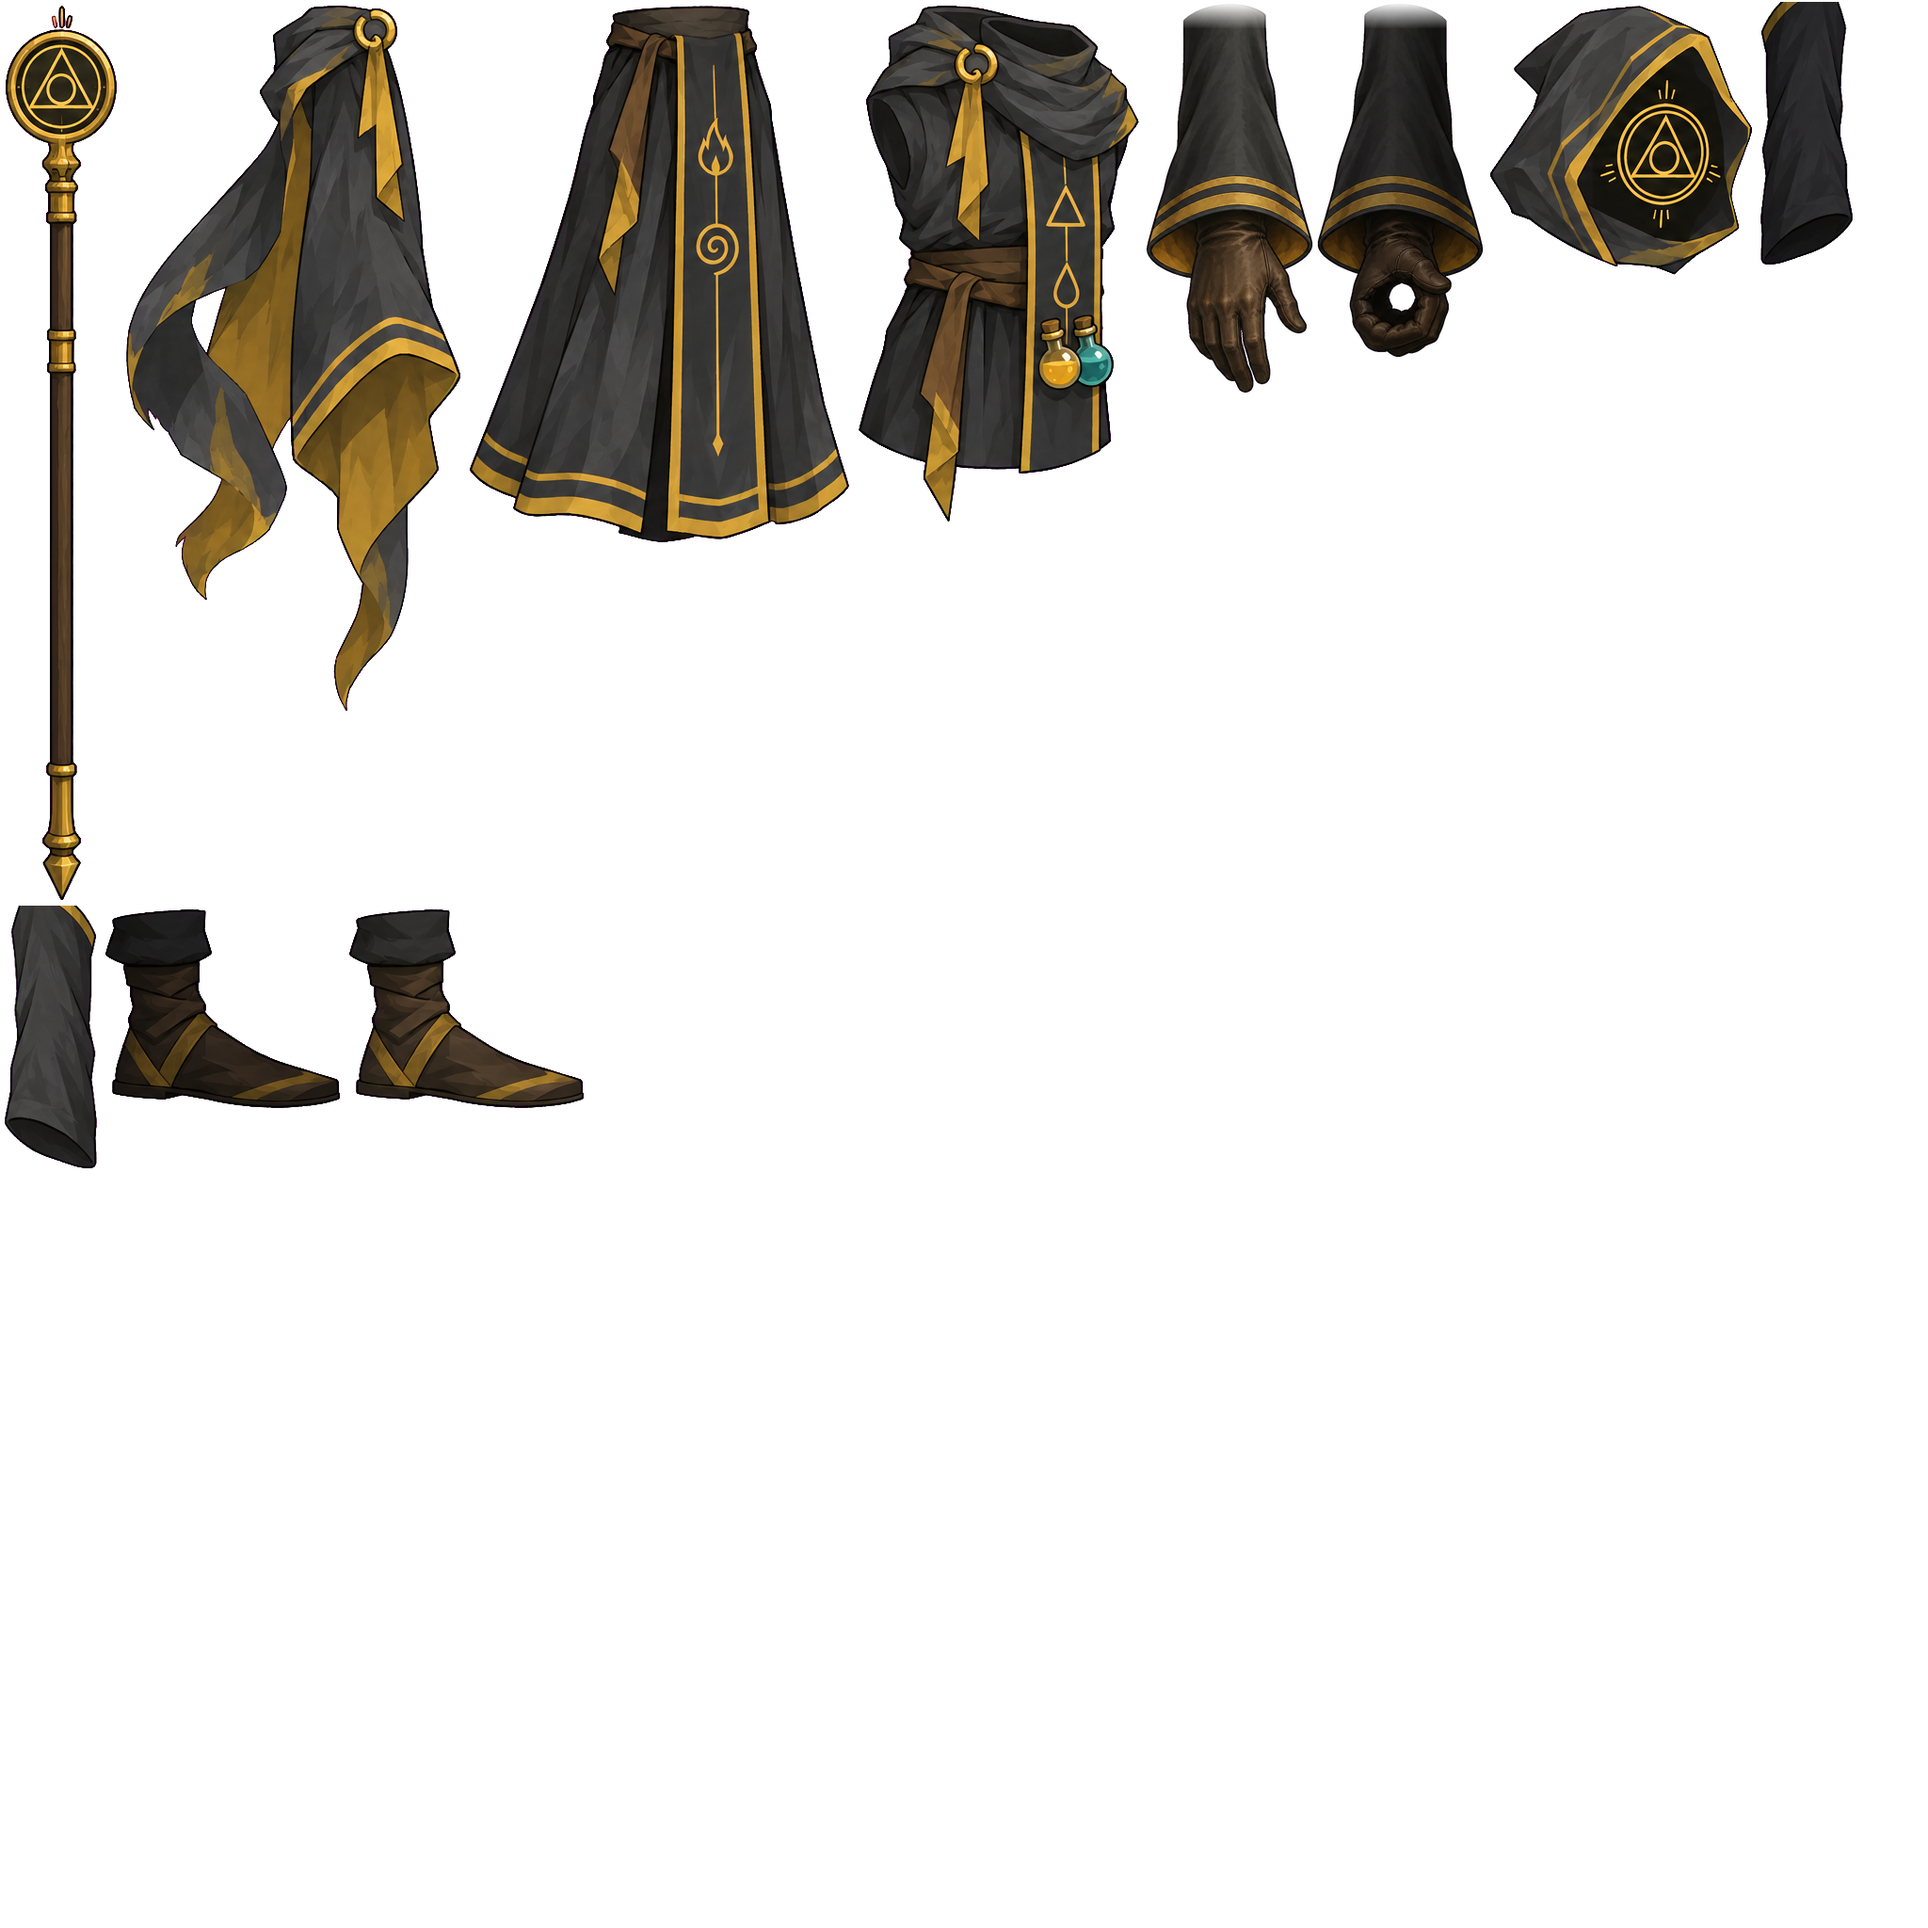
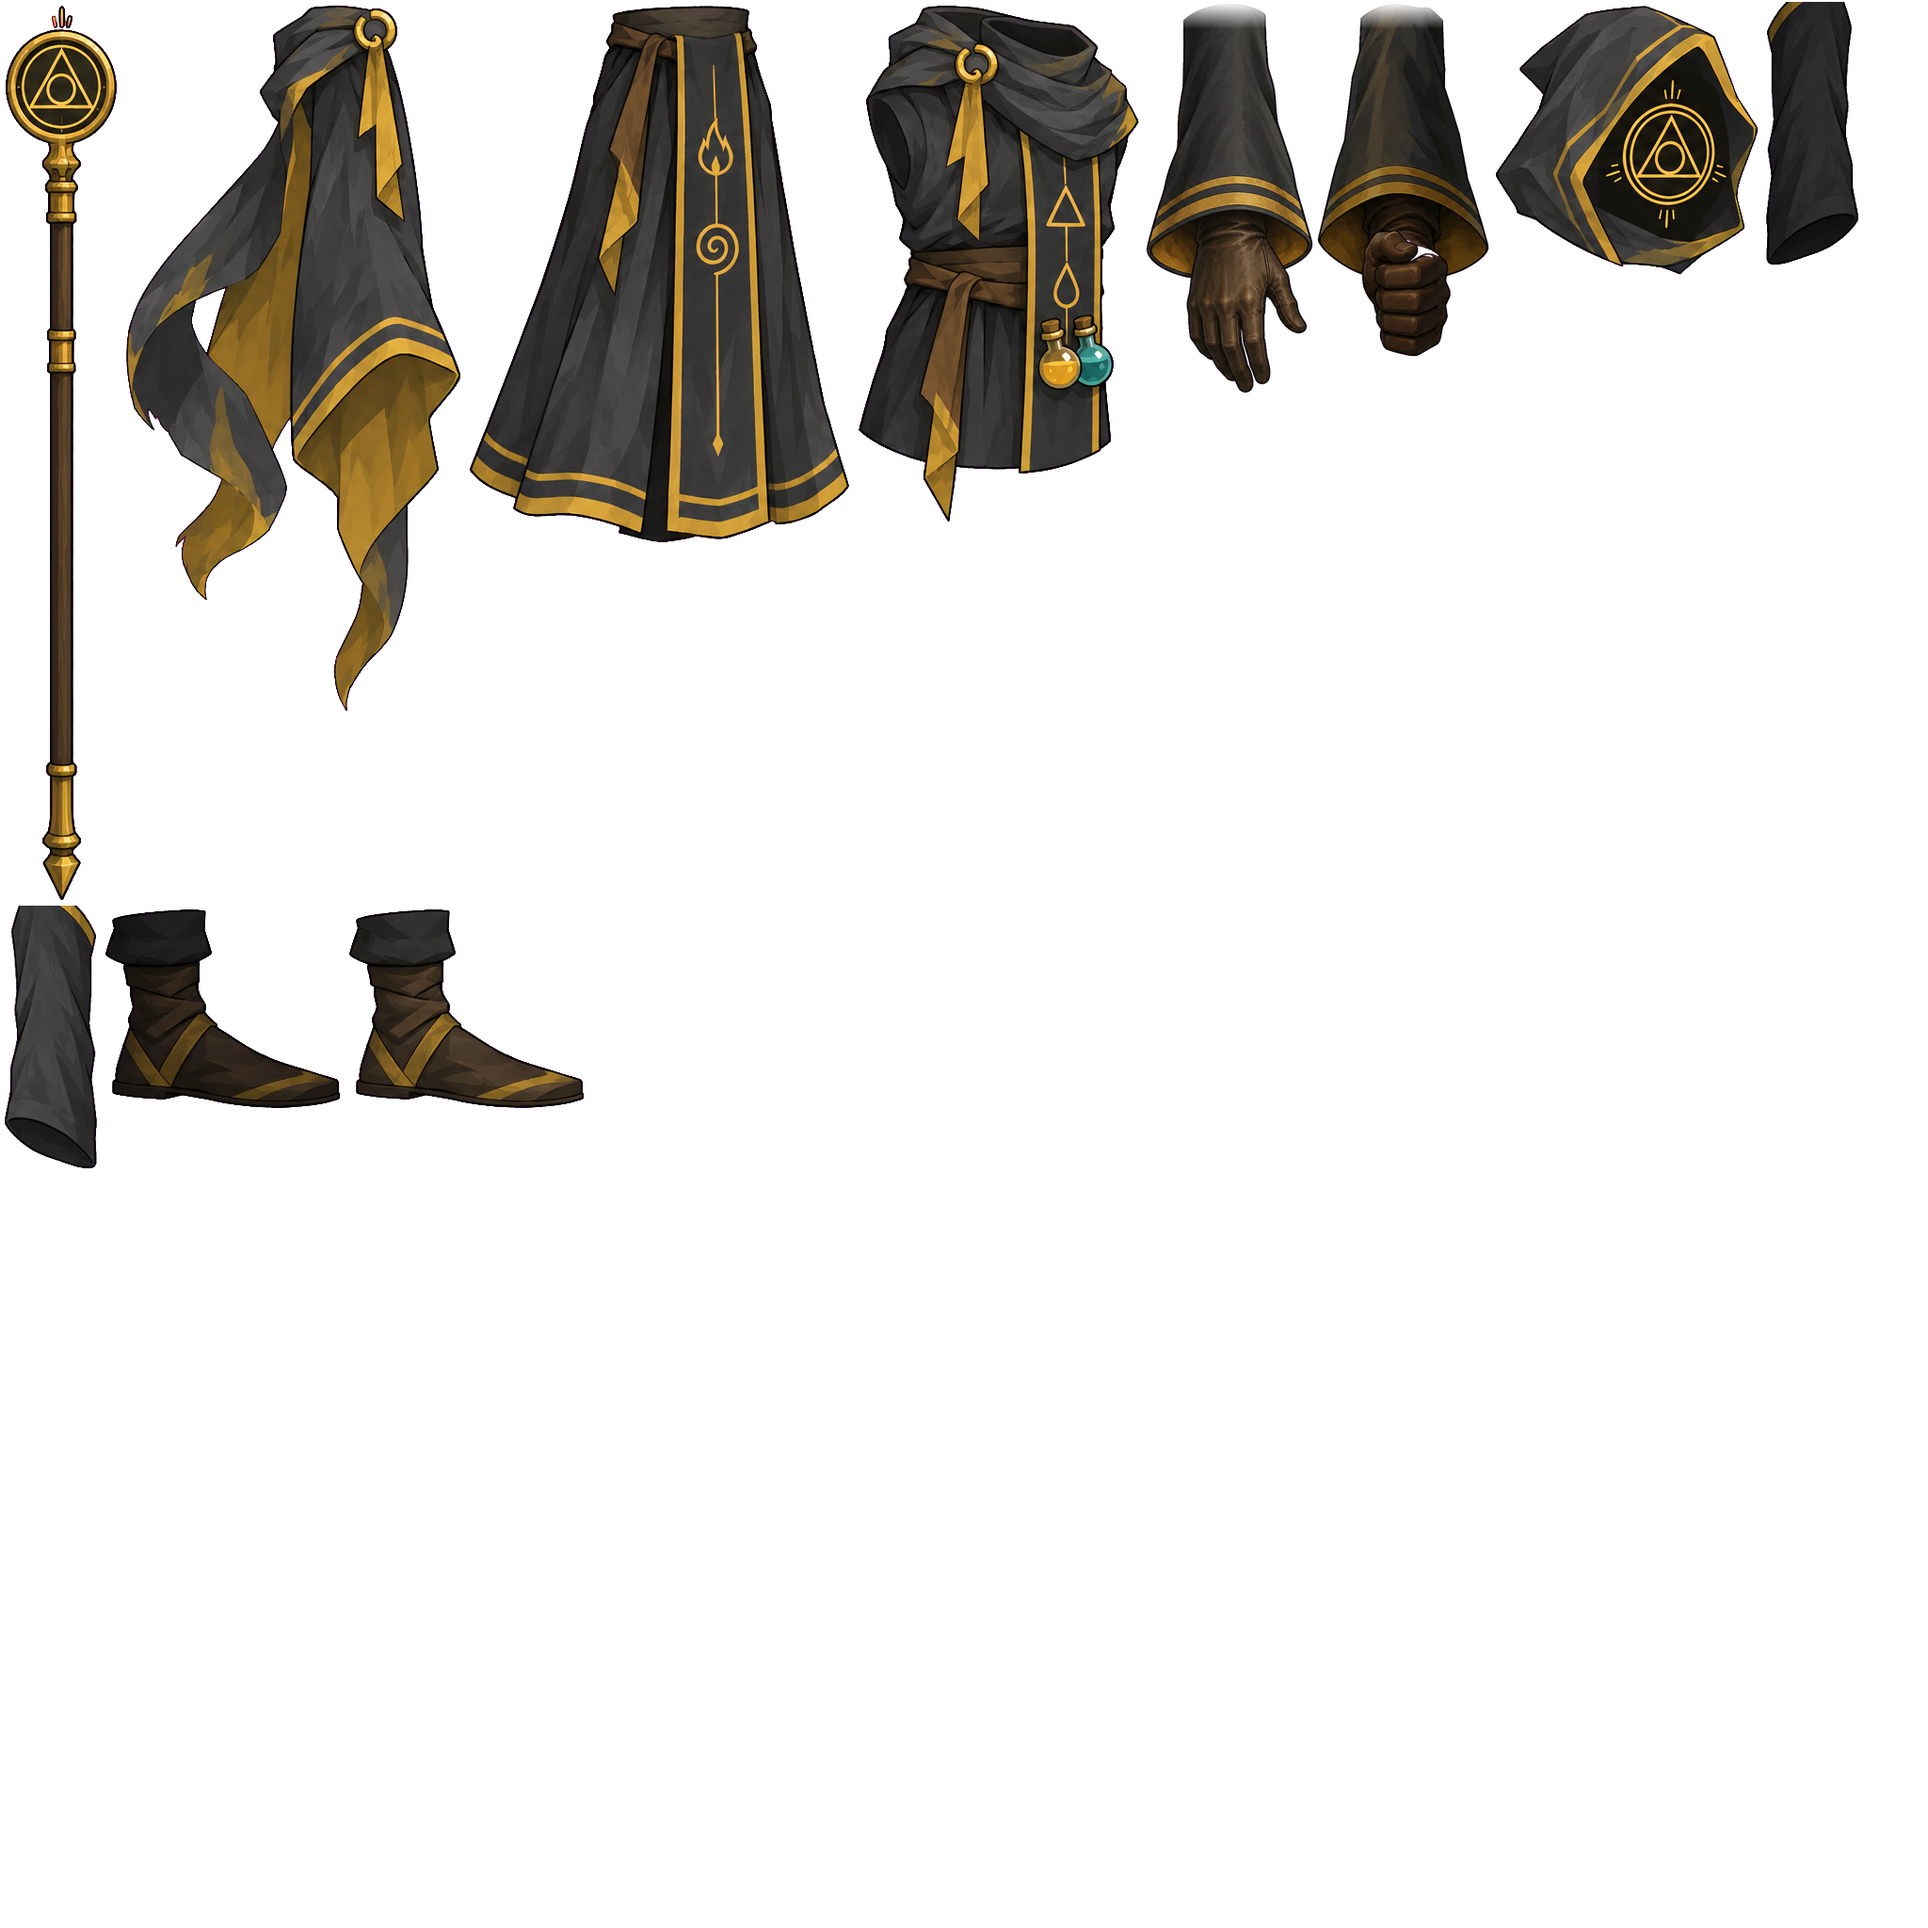
自前の骨格：杖を持つ手を左手の握り拳に描き直し、杖を拳の後ろに通して握りの向きにそろえる
- 前の拳は穴が正面を向いたOKサインで右手に見えた（ユーザー）
- rig-parts.py --set grip：縦の棒を握った左手の拳（手のひら側、棒は描かない）を生成
- 杖は拳の部分の重心を通し、拳の後ろに描く。待機は垂直、攻撃・詠唱は前腕と同じ向き
- 杖を持つ前腕は立て気味に

Changed region(s): [[0.6875, 0.0, 0.9688, 0.1875]]

diff --git a/scripts/rig-build.py b/scripts/rig-build.py
@@ -39,8 +39,10 @@ BONES = {
     "fore_b": ("arm_b", -150, 590, -95),
     "hand_b": ("fore_b", None, None, -95),
     "arm_f": ("torso", 105, 860, -80),
-    "fore_f": ("arm_f", 155, 590, -50),
-    "hand_f": ("fore_f", None, None, -50),
+    # The staff arm's forearm hangs nearly straight (-75) so the fist, closed round the upright staff, is not tilted
+    # far off it.
+    "fore_f": ("arm_f", 155, 590, -75),
+    "hand_f": ("fore_f", None, None, -75),
     "staff": ("hand_f", None, None, 90),
     # The legs hang from the root, not the hip: when the body sinks (death) the shoes stay on the ground.
     "leg_b": ("root", -60, 600, -90),
@@ -59,7 +61,7 @@ SLOTS = [
     ("cape", "cape", "CAPE", -150, 560, 0, False, None),
     ("staff", "staff", "STAFF", None, None, 0, False, None),
     ("arm_f", "arm_f", "UPPER_ARM", None, None, None, False, FAR),
-    # The forearms carry their hands (rig-parts.py --set forearms): the fist with the staff through its hole.
+    # The forearms carry their hands (rig-parts.py --set forearms / --set grip): the left fist closed round the staff.
     ("fore_f", "fore_f", "FOREARM_GRIP", None, None, None, False, FAR),
     ("foot_f", "foot_f", "BOOT", 95, 108, 0, False, FAR),
     ("foot_b", "foot_b", "BOOT", -40, 112, 0, False, None),
@@ -130,8 +132,8 @@ ANIMATIONS = {
         fore_b=rot((0, 0), (T / 2, 4), (T, 0)),
     ),
     # Draw the staff back, then thrust it forward with a lunge, the sigil head pointing at the enemy.
-    # Keys add to the setup angles: arm_f is -80 in the setup pose, the forearm 30 more, the staff 140 more than the
-    # hand; so arm 75 puts the arm level (-5), forearm -25 level (0), staff -130 level (pointing at the enemy).
+    # Keys add to the setup angles: arm_f is -80 in the setup pose, the forearm -75, the staff 90; so arm 75 puts
+    # the arm and forearm about level, staff -165 lays it along the forearm, pointing at the enemy.
     # Moves across the floor go on the root (the legs hang from it); the hip only rises and sinks.
     "attack": bone_anim(
         root=move((0, 0, 0), (0.15, -40, 0), (0.3, 120, 0), (0.55, 120, 0), (0.85, 0, 0)),
@@ -139,8 +141,9 @@ ANIMATIONS = {
         torso=rot((0, 0), (0.15, 8), (0.3, -12), (0.55, -12), (0.85, 0)),
         head=rot((0, 0), (0.15, 5), (0.3, -6), (0.85, 0)),
         arm_f=rot((0, 0), (0.15, 30), (0.3, 75), (0.55, 75), (0.85, 0)),
-        fore_f=rot((0, 0), (0.15, 40), (0.3, -25), (0.55, -25), (0.85, 0)),
-        staff=rot((0, 0), (0.15, -20), (0.3, -130), (0.55, -130), (0.85, 0)),
+        # The staff lies along the forearm, as the fist holds it (forearm -75+30+40 = -5, staff 90+70-165 = -5).
+        fore_f=rot((0, 0), (0.15, 40), (0.3, 0), (0.55, 0), (0.85, 0)),
+        staff=rot((0, 0), (0.15, -165), (0.3, -165), (0.55, -165), (0.85, 0)),
         arm_b=rot((0, 0), (0.15, -20), (0.3, 30), (0.85, 0)),
         cape=rot((0, 0), (0.3, 18), (0.55, 10), (0.85, 0)),
         skirt=rot((0, 0), (0.3, 6), (0.85, 0)),
@@ -150,11 +153,12 @@ ANIMATIONS = {
         hip=move((0, 0, 0), (0.3, 0, 30), (0.75, 0, 30), (1.0, 0, 0)),
         torso=rot((0, 0), (0.3, 6), (0.75, 6), (1.0, 0)),
         head=rot((0, 0), (0.3, 12), (0.75, 12), (1.0, 0)),
-        # Hold the staff up in front: arm level forward (10), forearm a little up (20), staff upright (90).
-        # A raised forearm turned the bell sleeve's opening upwards like a cup (2026-10-02), so the arm stays level.
+        # Raise the staff forward and up: arm level (10), forearm up at 45 and the staff along it (the fist holds the
+        # staff along the forearm). Setup: forearm -75, staff 90. Straight up turned the bell sleeve's opening
+        # upwards like a cup (2026-10-02).
         arm_f=rot((0, 0), (0.3, 90), (0.75, 90), (1.0, 0)),
-        fore_f=rot((0, 0), (0.3, -20), (0.75, -20), (1.0, 0)),
-        staff=rot((0, 0), (0.3, -70), (0.75, -70), (1.0, 0)),
+        fore_f=rot((0, 0), (0.3, 30), (0.75, 30), (1.0, 0)),
+        staff=rot((0, 0), (0.3, -165), (0.75, -165), (1.0, 0)),
         # The near arm opens out and down; held level, the hand read as turned the wrong way (Gemini, 2026-10-02).
         arm_b=rot((0, 0), (0.3, -40), (0.75, -40), (1.0, 0)),
         fore_b=rot((0, 0), (0.3, -10), (0.75, -10), (1.0, 0)),
@@ -243,11 +247,14 @@ def hang(i, images, pivot, r, overlap):
     SLOTS[i] = (slot, bone, part, jx + dx, jy + dy, r, flip, tint)
 
 
-def fist_hole(im):
-    """The middle of the see-through gap enclosed by the fist (where the staff passes), in picture pixels."""
+def fist_centre(im):
+    """The middle of the fist, in picture pixels: the opaque pixels of the picture's lowest quarter (the fist hangs
+    below the cuff). The staff is drawn behind the forearm through this point, so it shows above and below the
+    fingers that close round it (the first grip had a hole facing the viewer, which read as an OK sign)."""
     alpha = np.asarray(im.getchannel("A")) > 128
-    ys, xs = np.nonzero(ndimage.binary_fill_holes(alpha) & ~alpha)
-    return xs.mean(), ys.mean()
+    h = alpha.shape[0]
+    ys, xs = np.nonzero(alpha[int(h * 0.75):])
+    return xs.mean(), int(h * 0.75) + ys.mean()
 
 
 def derive(images):
@@ -265,14 +272,16 @@ def derive(images):
         im = images[sleeve]
         # The hand bones sit at the wrist (the cuff, about where the sleeve's lower third starts); the staff hangs
         # from the fist's hole.
-        point = fist_hole(im) if hand == "hand_f" else (im.width / 2, im.height * 0.6)
+        point = fist_centre(im) if hand == "hand_f" else (im.width / 2, im.height * 0.6)
         wx, wy = picture_point(index[sleeve], images, *point)
         parent, _, _, angle = BONES[hand]
         BONES[hand] = (parent, wx, wy, angle)
+    # The staff stands upright through the fist. (Laid along the fist it leaned back behind the body; with the
+    # forearm nearly straight the fist is only 15 degrees off the staff.)
     gx, gy = BONES["hand_f"][1:3]
     BONES["staff"] = ("hand_f", gx, gy, 90)
     st = index["staff"]
-    SLOTS[st] = SLOTS[st][:3] + (gx, gy + STAFF_ABOVE_GRIP) + SLOTS[st][5:]
+    SLOTS[st] = SLOTS[st][:3] + (gx, gy + STAFF_ABOVE_GRIP, 0) + SLOTS[st][6:]
 
 
 def main():

diff --git a/scripts/rig-parts.py b/scripts/rig-parts.py
@@ -57,6 +57,20 @@ FOREARMS = [
      "of the cuff overlaps the wrist. No staff drawn."),
 ]
 
+# 2026-10-02: the first FOREARM_GRIP read as a right hand making an OK sign with the staff through a hole facing the
+# viewer (user). Redrawn as a left fist closed round a vertical pole that is not drawn; the staff is a separate part
+# drawn behind the fist, so it shows above and below the fingers.
+GRIP = [
+    ("FOREARM_GRIP", "the same wide bell sleeve as the FOREARM parts in the attached sheets, straight and vertical, "
+     "elbow end at the top, gold trim stripes at the cuff, mustard lining. Out of the INSIDE of the cuff comes a dark "
+     "brown leather gloved LEFT hand clenched in a fist around a VERTICAL round pole about as thick as a finger. The "
+     "pole is NOT drawn. Seen from the palm side: the four curled fingers lie horizontally across the front of the "
+     "(invisible) pole, one above the other, their middle knuckles towards the viewer; the thumb comes round from the "
+     "LEFT and rests over the index finger at the top. The top and bottom of the fist curve round where the pole "
+     "enters and leaves, leaving a small notch of background above and below the fingers where the pole would be. "
+     "The wrist disappears into the dark inside of the sleeve."),
+]
+
 BRIEF = (
     "Create a CHARACTER PARTS SHEET for a 2D skeletal (cut-out) animation rig of the Alchemist, a playable character "
     "in a Slay the Spire 2 mod. The first attached image is the Alchemist's key visual: match its design, colours "
@@ -80,6 +94,9 @@ tag = arg("--tag", "v1")
 if arg("--set") == "forearms":
     PARTS = FOREARMS
     REFS = REFS + [OUT / "parts-v1.png"]
+elif arg("--set") == "grip":
+    PARTS = GRIP
+    REFS = REFS + [OUT / "parts-v1.png", OUT / "parts-forearms-v1.png"]
 note = arg("--note", "")
 codex = shutil.which("codex") or shutil.which("codex.cmd")
 if not codex:

diff --git a/docs/session-log.md b/docs/session-log.md
@@ -38,6 +38,10 @@
    - **前腕を手付きで描き直した**：`rig-parts.py --set forearms`でCodexに「袖口の内側から手が出ている前腕」を2本（右手の甲・左手の拳の手のひら側で杖の穴あり）生成（1回）→`rig-cut.py --names FOREARM_OPEN,FOREARM_GRIP --scale 0.47`。杖は拳の穴（不透明部分に囲まれた透明部分）を自動で見つけて通す。前腕の傾きは骨の向きから。手の別部品と袖口の縁の層はやめた（HAND_OPEN・HAND_GRIP・FOREARMの部品ファイルは残っているが使っていない）。
    - 上腕は前腕の太さに合わせて横0.8倍、前腕の上端は28pxぼかして肘の線をなじませた。
    - Codexの最終確認：手の指摘はなし。残るのは「腕をまっすぐ伸ばしたコマで肘が細く折れて見える」（攻撃・詠唱）。釣鐘形の袖を切り絵で伸ばすと出るくびれで、きれいに直すには肘のメッシュ変形が要る。スモーク405件PASS、反映済み（旧版`artifacts/backups/20261002-164931-473`）。確認用は`artifacts/rig-probe/hand10-all.png`。
+10. ユーザー「杖を持つ手が右手に見える。杖を持っているようにも見えない」→ 最初の拳は穴が正面を向いた「OKサイン」で、杖がその穴を突き抜けていた。
+   - `rig-parts.py --set grip`で左手の拳を描き直した（1回）：縦の棒を握った拳を手のひら側から、4本の指が横に並び、親指が左から上に掛かる。棒は描かせず、杖は別部品として拳の後ろに描く（拳の上下から杖が見える）。杖の位置は拳の部分の重心（`fist_centre`）。
+   - 杖を持つ前腕は立て気味に（骨-50→-75）、杖は垂直のまま（拳の傾きは15°）。攻撃・詠唱では杖を前腕と同じ向きにそろえた（握りの向きと合わせる）：攻撃は杖を前方水平に突き出す、詠唱は前腕と杖を前方45°に掲げる。
+   - Codex「問題なし」。スモーク405件PASS、反映済み（旧版`artifacts/backups/20261002-171245-614`）。確認用は`artifacts/rig-probe/grip2-all.png`。
 
 ### 次にやること・返答待ち
 1. **ユーザーが実際の戦闘画面で確認**（大きさ・位置・動き・継ぎ目）。
